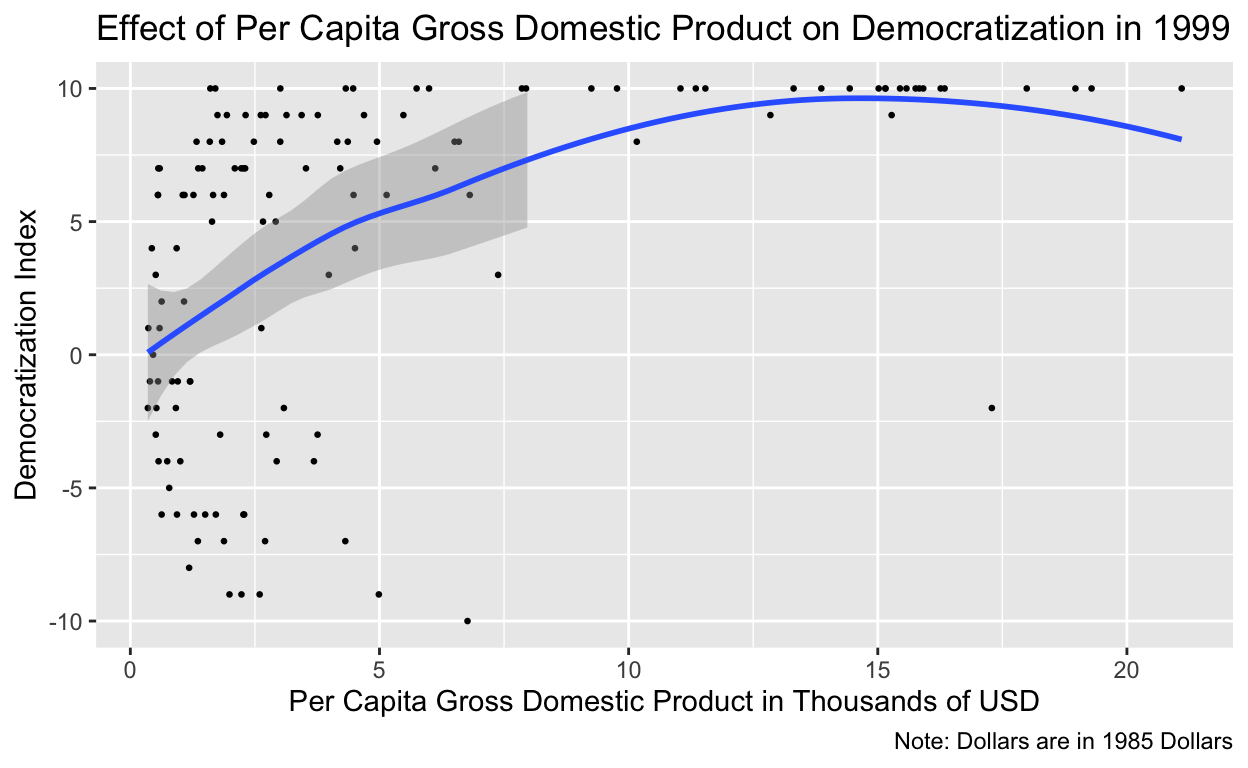
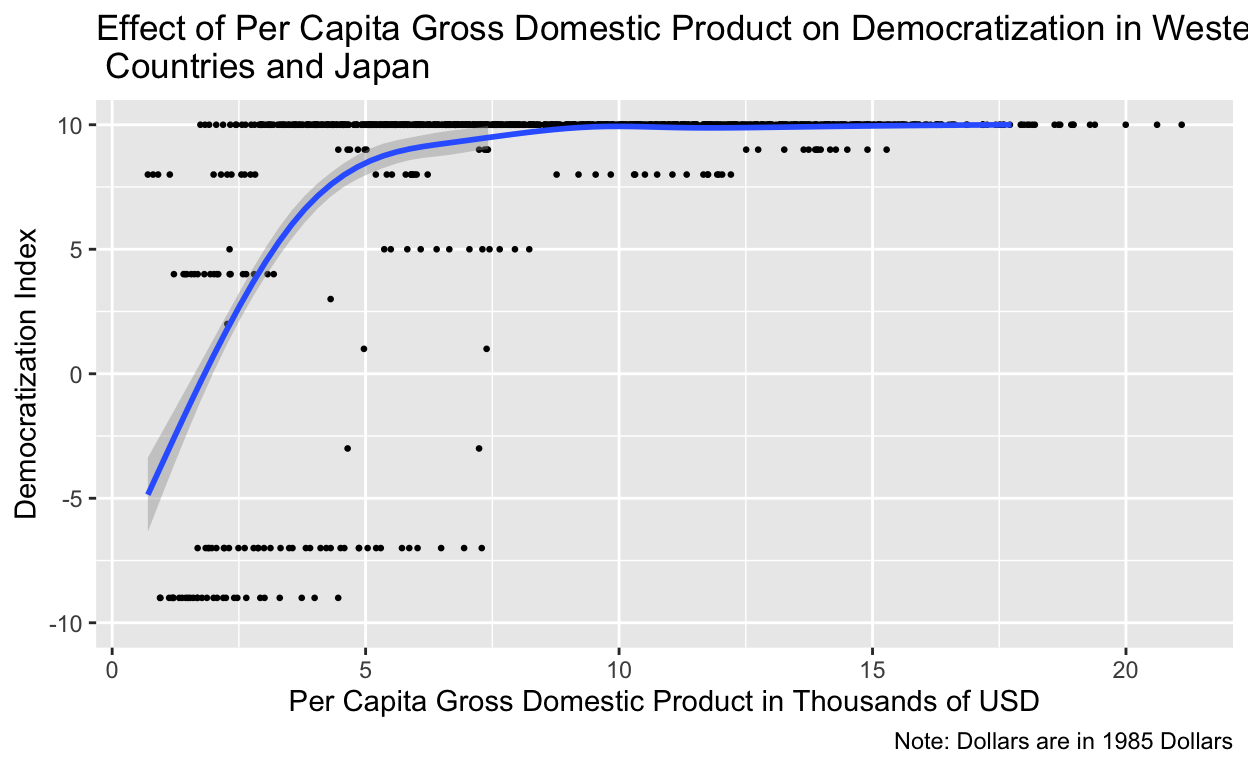
Data Analysis

diff --git a/index.html b/index.html
@@ -115,7 +115,7 @@ code span.wa { color: #5e5e5e; font-style: italic; } /* Warning */
   <!--/radix_placeholder_rmarkdown_metadata-->
   
   <script type="text/json" id="radix-resource-manifest">
-  {"type":"character","attributes":{},"value":["civilwar.csv","index_files/anchor-4.2.2/anchor.min.js","index_files/bowser-1.9.3/bowser.min.js","index_files/distill-2.2.21/template.v2.js","index_files/figure-html5/unnamed-chunk-1-1.png","index_files/figure-html5/unnamed-chunk-1-2.png","index_files/figure-html5/unnamed-chunk-2-1.png","index_files/header-attrs-2.17/header-attrs.js","index_files/header-attrs-2.24/header-attrs.js","index_files/jquery-3.6.0/jquery-3.6.0.js","index_files/jquery-3.6.0/jquery-3.6.0.min.js","index_files/jquery-3.6.0/jquery-3.6.0.min.map","index_files/popper-2.6.0/popper.min.js","index_files/tippy-6.2.7/tippy-bundle.umd.min.js","index_files/tippy-6.2.7/tippy-light-border.css","index_files/tippy-6.2.7/tippy.css","index_files/tippy-6.2.7/tippy.umd.min.js","index_files/webcomponents-2.0.0/webcomponents.js"]}
+  {"type":"character","attributes":{},"value":["civilwar.csv","index_files/anchor-4.2.2/anchor.min.js","index_files/bowser-1.9.3/bowser.min.js","index_files/distill-2.2.21/template.v2.js","index_files/figure-html5/unnamed-chunk-1-1.png","index_files/figure-html5/unnamed-chunk-1-2.png","index_files/figure-html5/unnamed-chunk-1-3.png","index_files/figure-html5/unnamed-chunk-1-4.png","index_files/figure-html5/unnamed-chunk-1-5.png","index_files/figure-html5/unnamed-chunk-1-6.png","index_files/figure-html5/unnamed-chunk-2-1.png","index_files/figure-html5/unnamed-chunk-3-1.png","index_files/header-attrs-2.17/header-attrs.js","index_files/header-attrs-2.24/header-attrs.js","index_files/jquery-3.6.0/jquery-3.6.0.js","index_files/jquery-3.6.0/jquery-3.6.0.min.js","index_files/jquery-3.6.0/jquery-3.6.0.min.map","index_files/popper-2.6.0/popper.min.js","index_files/tippy-6.2.7/tippy-bundle.umd.min.js","index_files/tippy-6.2.7/tippy-light-border.css","index_files/tippy-6.2.7/tippy.css","index_files/tippy-6.2.7/tippy.umd.min.js","index_files/webcomponents-2.0.0/webcomponents.js"]}
   </script>
   <!--radix_placeholder_navigation_in_header-->
   <!--/radix_placeholder_navigation_in_header-->
@@ -1517,6 +1517,103 @@ code span.wa { color: #5e5e5e; font-style: italic; } /* Warning */
 </div>
 
 <div class="d-article">
+<h2 id="data-analysis">Data Analysis</h2>
+<p>I have produced six data visualizations pertaining to my research question of the effects of GDP per capita on democratization. These visualizations provide insight into differences in the effects of GDP per capita on democratization based off continent. My graphs for the Western World, Latin America, and Sub-Saharan Africa appear to demonstrate a generally positive relationship between GDP per capita and democratization. For Eastern Europe, this relationship appears to be positive until per capita GDP reaches $4.5 thousand before turning into a negative relationship. For Asian countries, this relationship appears ot be positive until per capita GDP reaches $9 thousand before turning into a negative relationship. And for North African/Middle Eastern countries, this relationship appears to be negative until per capita GDP reaches approximately $35 thousand before turning into a positive relationship. These findings appear to demonstrate that depending on continent, the effects of GDP per capita on democratization may vary.</p>
+<div class="layout-chunk" data-layout="l-body">
+<div class="sourceCode">
+<pre class="sourceCode r"><code class="sourceCode r"><span><span class='kw'><a href='https://rdrr.io/r/base/library.html'>library</a></span><span class='op'>(</span><span class='va'><a href='https://tidyverse.tidyverse.org'>tidyverse</a></span><span class='op'>)</span></span>
+<span><span class='va'>civilwar</span> <span class='op'>&lt;-</span> <span class='fu'><a href='https://readr.tidyverse.org/reference/read_delim.html'>read_csv</a></span><span class='op'>(</span><span class='st'>"civilwar.csv"</span><span class='op'>)</span></span>
+<span></span>
+<span><span class='va'>civilwar</span> <span class='op'>|&gt;</span></span>
+<span>  <span class='fu'><a href='https://dplyr.tidyverse.org/reference/filter.html'>filter</a></span><span class='op'>(</span><span class='va'>western</span> <span class='op'>==</span> <span class='fl'>1</span><span class='op'>)</span> <span class='op'>|&gt;</span></span>
+<span>  <span class='fu'><a href='https://ggplot2.tidyverse.org/reference/ggplot.html'>ggplot</a></span><span class='op'>(</span><span class='fu'><a href='https://ggplot2.tidyverse.org/reference/aes.html'>aes</a></span><span class='op'>(</span>x <span class='op'>=</span> <span class='va'>gdpen</span>, y <span class='op'>=</span> <span class='va'>polity2</span><span class='op'>)</span><span class='op'>)</span> <span class='op'>+</span></span>
+<span>  <span class='fu'><a href='https://ggplot2.tidyverse.org/reference/geom_point.html'>geom_point</a></span><span class='op'>(</span>size <span class='op'>=</span> <span class='fl'>0.5</span><span class='op'>)</span> <span class='op'>+</span></span>
+<span>  <span class='fu'><a href='https://ggplot2.tidyverse.org/reference/geom_smooth.html'>geom_smooth</a></span><span class='op'>(</span><span class='op'>)</span> <span class='op'>+</span></span>
+<span>  <span class='fu'><a href='https://ggplot2.tidyverse.org/reference/lims.html'>ylim</a></span><span class='op'>(</span><span class='op'>-</span><span class='fl'>10</span>, <span class='fl'>10</span><span class='op'>)</span> <span class='op'>+</span></span>
+<span>  <span class='fu'><a href='https://ggplot2.tidyverse.org/reference/labs.html'>labs</a></span><span class='op'>(</span></span>
+<span>    x <span class='op'>=</span> <span class='st'>"Per Capita Gross Domestic Product in Thousands of USD"</span>,</span>
+<span>    y <span class='op'>=</span> <span class='st'>"Democratization Index"</span>,</span>
+<span>    title <span class='op'>=</span> <span class='st'>"Effect of Per Capita Gross Domestic Product on Democratization in Western \n\ Countries and Japan"</span>,</span>
+<span>    caption <span class='op'>=</span> <span class='st'>"Note: Dollars are in 1985 Dollars"</span></span>
+<span>  <span class='op'>)</span></span></code></pre>
+</div>
+<img src="index_files/figure-html5/unnamed-chunk-1-1.png" width="624" />
+<div class="sourceCode">
+<pre class="sourceCode r"><code class="sourceCode r"><span><span class='va'>civilwar</span> <span class='op'>|&gt;</span></span>
+<span>  <span class='fu'><a href='https://dplyr.tidyverse.org/reference/filter.html'>filter</a></span><span class='op'>(</span><span class='va'>eeurop</span> <span class='op'>==</span> <span class='fl'>1</span><span class='op'>)</span> <span class='op'>|&gt;</span></span>
+<span>  <span class='fu'><a href='https://ggplot2.tidyverse.org/reference/ggplot.html'>ggplot</a></span><span class='op'>(</span><span class='fu'><a href='https://ggplot2.tidyverse.org/reference/aes.html'>aes</a></span><span class='op'>(</span>x <span class='op'>=</span> <span class='va'>gdpen</span>, y <span class='op'>=</span> <span class='va'>polity2</span><span class='op'>)</span><span class='op'>)</span> <span class='op'>+</span></span>
+<span>  <span class='fu'><a href='https://ggplot2.tidyverse.org/reference/geom_point.html'>geom_point</a></span><span class='op'>(</span>size <span class='op'>=</span> <span class='fl'>0.5</span><span class='op'>)</span> <span class='op'>+</span></span>
+<span>  <span class='fu'><a href='https://ggplot2.tidyverse.org/reference/geom_smooth.html'>geom_smooth</a></span><span class='op'>(</span><span class='op'>)</span> <span class='op'>+</span></span>
+<span>  <span class='fu'><a href='https://ggplot2.tidyverse.org/reference/lims.html'>ylim</a></span><span class='op'>(</span><span class='op'>-</span><span class='fl'>10</span>, <span class='fl'>10</span><span class='op'>)</span> <span class='op'>+</span></span>
+<span>  <span class='fu'><a href='https://ggplot2.tidyverse.org/reference/labs.html'>labs</a></span><span class='op'>(</span></span>
+<span>    x <span class='op'>=</span> <span class='st'>"Per Capita Gross Domestic Product in Thousands of USD"</span>,</span>
+<span>    y <span class='op'>=</span> <span class='st'>"Democratization Index"</span>,</span>
+<span>    title <span class='op'>=</span> <span class='st'>"Effect of Per Capita Gross Domestic Product on Democratization in Eastern Europe"</span>,</span>
+<span>    caption <span class='op'>=</span> <span class='st'>"Note: Dollars are in 1985 Dollars"</span></span>
+<span>  <span class='op'>)</span></span></code></pre>
+</div>
+<img src="index_files/figure-html5/unnamed-chunk-1-2.png" width="624" />
+<div class="sourceCode">
+<pre class="sourceCode r"><code class="sourceCode r"><span><span class='va'>civilwar</span> <span class='op'>|&gt;</span></span>
+<span>  <span class='fu'><a href='https://dplyr.tidyverse.org/reference/filter.html'>filter</a></span><span class='op'>(</span><span class='va'>lamerica</span> <span class='op'>==</span> <span class='fl'>1</span><span class='op'>)</span> <span class='op'>|&gt;</span></span>
+<span>  <span class='fu'><a href='https://ggplot2.tidyverse.org/reference/ggplot.html'>ggplot</a></span><span class='op'>(</span><span class='fu'><a href='https://ggplot2.tidyverse.org/reference/aes.html'>aes</a></span><span class='op'>(</span>x <span class='op'>=</span> <span class='va'>gdpen</span>, y <span class='op'>=</span> <span class='va'>polity2</span><span class='op'>)</span><span class='op'>)</span> <span class='op'>+</span></span>
+<span>  <span class='fu'><a href='https://ggplot2.tidyverse.org/reference/geom_point.html'>geom_point</a></span><span class='op'>(</span>size <span class='op'>=</span> <span class='fl'>0.5</span><span class='op'>)</span> <span class='op'>+</span></span>
+<span>  <span class='fu'><a href='https://ggplot2.tidyverse.org/reference/geom_smooth.html'>geom_smooth</a></span><span class='op'>(</span><span class='op'>)</span> <span class='op'>+</span></span>
+<span>  <span class='fu'><a href='https://ggplot2.tidyverse.org/reference/lims.html'>ylim</a></span><span class='op'>(</span><span class='op'>-</span><span class='fl'>10</span>, <span class='fl'>10</span><span class='op'>)</span> <span class='op'>+</span></span>
+<span>  <span class='fu'><a href='https://ggplot2.tidyverse.org/reference/labs.html'>labs</a></span><span class='op'>(</span></span>
+<span>    x <span class='op'>=</span> <span class='st'>"Per Capita Gross Domestic Product in Thousands of USD"</span>,</span>
+<span>    y <span class='op'>=</span> <span class='st'>"Democratization Index"</span>,</span>
+<span>    title <span class='op'>=</span> <span class='st'>"Effect of Per Capita Gross Domestic Product on Democratization in Latin America"</span>,</span>
+<span>    caption <span class='op'>=</span> <span class='st'>"Note: Dollars are in 1985 Dollars"</span></span>
+<span>  <span class='op'>)</span></span></code></pre>
+</div>
+<img src="index_files/figure-html5/unnamed-chunk-1-3.png" width="624" />
+<div class="sourceCode">
+<pre class="sourceCode r"><code class="sourceCode r"><span><span class='va'>civilwar</span> <span class='op'>|&gt;</span></span>
+<span>  <span class='fu'><a href='https://dplyr.tidyverse.org/reference/filter.html'>filter</a></span><span class='op'>(</span><span class='va'>ssafrica</span> <span class='op'>==</span> <span class='fl'>1</span><span class='op'>)</span> <span class='op'>|&gt;</span></span>
+<span>  <span class='fu'><a href='https://ggplot2.tidyverse.org/reference/ggplot.html'>ggplot</a></span><span class='op'>(</span><span class='fu'><a href='https://ggplot2.tidyverse.org/reference/aes.html'>aes</a></span><span class='op'>(</span>x <span class='op'>=</span> <span class='va'>gdpen</span>, y <span class='op'>=</span> <span class='va'>polity2</span><span class='op'>)</span><span class='op'>)</span> <span class='op'>+</span></span>
+<span>  <span class='fu'><a href='https://ggplot2.tidyverse.org/reference/geom_point.html'>geom_point</a></span><span class='op'>(</span>size <span class='op'>=</span> <span class='fl'>0.5</span><span class='op'>)</span> <span class='op'>+</span></span>
+<span>  <span class='fu'><a href='https://ggplot2.tidyverse.org/reference/geom_smooth.html'>geom_smooth</a></span><span class='op'>(</span><span class='op'>)</span> <span class='op'>+</span></span>
+<span>  <span class='fu'><a href='https://ggplot2.tidyverse.org/reference/lims.html'>ylim</a></span><span class='op'>(</span><span class='op'>-</span><span class='fl'>10</span>, <span class='fl'>10</span><span class='op'>)</span> <span class='op'>+</span></span>
+<span>  <span class='fu'><a href='https://ggplot2.tidyverse.org/reference/labs.html'>labs</a></span><span class='op'>(</span></span>
+<span>    x <span class='op'>=</span> <span class='st'>"Per Capita Gross Domestic Product in Thousands of USD"</span>,</span>
+<span>    y <span class='op'>=</span> <span class='st'>"Democratization Index"</span>,</span>
+<span>    title <span class='op'>=</span> <span class='st'>"Effect of Per Capita Gross Domestic Product on Democratization in \n\ Sub-Saharan Africa"</span>,</span>
+<span>    caption <span class='op'>=</span> <span class='st'>"Note: Dollars are in 1985 Dollars"</span></span>
+<span>  <span class='op'>)</span></span></code></pre>
+</div>
+<img src="index_files/figure-html5/unnamed-chunk-1-4.png" width="624" />
+<div class="sourceCode">
+<pre class="sourceCode r"><code class="sourceCode r"><span><span class='va'>civilwar</span> <span class='op'>|&gt;</span></span>
+<span>  <span class='fu'><a href='https://dplyr.tidyverse.org/reference/filter.html'>filter</a></span><span class='op'>(</span><span class='va'>asia</span> <span class='op'>==</span> <span class='fl'>1</span><span class='op'>)</span> <span class='op'>|&gt;</span></span>
+<span>  <span class='fu'><a href='https://ggplot2.tidyverse.org/reference/ggplot.html'>ggplot</a></span><span class='op'>(</span><span class='fu'><a href='https://ggplot2.tidyverse.org/reference/aes.html'>aes</a></span><span class='op'>(</span>x <span class='op'>=</span> <span class='va'>gdpen</span>, y <span class='op'>=</span> <span class='va'>polity2</span><span class='op'>)</span><span class='op'>)</span> <span class='op'>+</span></span>
+<span>  <span class='fu'><a href='https://ggplot2.tidyverse.org/reference/geom_point.html'>geom_point</a></span><span class='op'>(</span>size <span class='op'>=</span> <span class='fl'>0.5</span><span class='op'>)</span> <span class='op'>+</span></span>
+<span>  <span class='fu'><a href='https://ggplot2.tidyverse.org/reference/geom_smooth.html'>geom_smooth</a></span><span class='op'>(</span><span class='op'>)</span> <span class='op'>+</span></span>
+<span>  <span class='fu'><a href='https://ggplot2.tidyverse.org/reference/lims.html'>ylim</a></span><span class='op'>(</span><span class='op'>-</span><span class='fl'>10</span>, <span class='fl'>10</span><span class='op'>)</span> <span class='op'>+</span></span>
+<span>  <span class='fu'><a href='https://ggplot2.tidyverse.org/reference/labs.html'>labs</a></span><span class='op'>(</span></span>
+<span>    x <span class='op'>=</span> <span class='st'>"Per Capita Gross Domestic Product in Thousands of USD"</span>,</span>
+<span>    y <span class='op'>=</span> <span class='st'>"Democratization Index"</span>,</span>
+<span>    title <span class='op'>=</span> <span class='st'>"Effect of Per Capita Gross Domestic Product on Democratization in Asia"</span>,</span>
+<span>    caption <span class='op'>=</span> <span class='st'>"Note: Dollars are in 1985 Dollars"</span></span>
+<span>  <span class='op'>)</span></span></code></pre>
+</div>
+<img src="index_files/figure-html5/unnamed-chunk-1-5.png" width="624" />
+<div class="sourceCode">
+<pre class="sourceCode r"><code class="sourceCode r"><span><span class='va'>civilwar</span> <span class='op'>|&gt;</span></span>
+<span>  <span class='fu'><a href='https://dplyr.tidyverse.org/reference/filter.html'>filter</a></span><span class='op'>(</span><span class='va'>nafrme</span> <span class='op'>==</span> <span class='fl'>1</span><span class='op'>)</span> <span class='op'>|&gt;</span></span>
+<span>  <span class='fu'><a href='https://ggplot2.tidyverse.org/reference/ggplot.html'>ggplot</a></span><span class='op'>(</span><span class='fu'><a href='https://ggplot2.tidyverse.org/reference/aes.html'>aes</a></span><span class='op'>(</span>x <span class='op'>=</span> <span class='va'>gdpen</span>, y <span class='op'>=</span> <span class='va'>polity2</span><span class='op'>)</span><span class='op'>)</span> <span class='op'>+</span></span>
+<span>  <span class='fu'><a href='https://ggplot2.tidyverse.org/reference/geom_point.html'>geom_point</a></span><span class='op'>(</span>size <span class='op'>=</span> <span class='fl'>0.5</span><span class='op'>)</span> <span class='op'>+</span></span>
+<span>  <span class='fu'><a href='https://ggplot2.tidyverse.org/reference/geom_smooth.html'>geom_smooth</a></span><span class='op'>(</span><span class='op'>)</span> <span class='op'>+</span></span>
+<span>  <span class='fu'><a href='https://ggplot2.tidyverse.org/reference/lims.html'>ylim</a></span><span class='op'>(</span><span class='op'>-</span><span class='fl'>10</span>, <span class='fl'>10</span><span class='op'>)</span> <span class='op'>+</span></span>
+<span>  <span class='fu'><a href='https://ggplot2.tidyverse.org/reference/labs.html'>labs</a></span><span class='op'>(</span></span>
+<span>    x <span class='op'>=</span> <span class='st'>"Per Capita Gross Domestic Product in Thousands of USD"</span>,</span>
+<span>    y <span class='op'>=</span> <span class='st'>"Democratization Index"</span>,</span>
+<span>    title <span class='op'>=</span> <span class='st'>"Effect of Per Capita Gross Domestic Product on Democratization in \n\ North Africa/Middle East"</span>,</span>
+<span>    caption <span class='op'>=</span> <span class='st'>"Note: Dollars are in 1985 Dollars"</span></span>
+<span>  <span class='op'>)</span></span></code></pre>
+</div>
+<p><img src="index_files/figure-html5/unnamed-chunk-1-6.png" width="624" /></p>
+</div>
 <h2 id="data-visualization">Data Visualization</h2>
 <p>I have produced two data visualizations pertaining to my research question of the effects of GDP per capita on a country’s democratization. I find an interesting difference between my two visualizations. My first visualization explores the effects of GDP per capita on countries’ democratization in 1999, finding that there seems to exist a positive relationship between GDP per capita and a country’s democratization. However, my second visualization, which explores this relationship between GDP per capita and democratization across all countries from 1945 to 1999, there appears to be a positive relationship between GDP per capita and democratization until approximately $10,000 USD per capita when the relationship becomes negative, implying that as per capita GDP increases beyond $10,000, the more likely a country is authoritarian.</p>
 <div class="layout-chunk" data-layout="l-body">
@@ -1537,7 +1634,7 @@ code span.wa { color: #5e5e5e; font-style: italic; } /* Warning */
 <span>    caption <span class='op'>=</span> <span class='st'>"Note: Dollars are in 1985 Dollars"</span></span>
 <span>  <span class='op'>)</span></span></code></pre>
 </div>
-<p><img src="index_files/figure-html5/unnamed-chunk-1-1.png" width="624" /></p>
+<p><img src="index_files/figure-html5/unnamed-chunk-2-1.png" width="624" /></p>
 </div>
 <div class="layout-chunk" data-layout="l-body">
 <div class="sourceCode">
@@ -1553,7 +1650,7 @@ code span.wa { color: #5e5e5e; font-style: italic; } /* Warning */
 <span>    caption <span class='op'>=</span> <span class='st'>"Note: Dollars are in 1985 Dollars"</span></span>
 <span>  <span class='op'>)</span></span></code></pre>
 </div>
-<p><img src="index_files/figure-html5/unnamed-chunk-2-1.png" width="624" /></p>
+<p><img src="index_files/figure-html5/unnamed-chunk-3-1.png" width="624" /></p>
 </div>
 <h2 id="project-proposal">Project Proposal</h2>
 <p>The research question for my final project is “what are the effects of gross domestic product on a country’s democratization index?” I hypothesize that the higher a country’s GDP, the more likely a country is to have a higher democracy index score. My hypothesis is rooted in the literature of comparative politics and specifically the modernization theory of democratization which argues that there exists a strong relationship between economic wealth and democracy. For instance, 19 out of the 20 richest countries in the world (aside from microstates and oil kingdoms) are democracies (Singapore is the exception), while the world’s 20 poorest countries are authoritarian regimes. Put simply by political scientist Seymour Lipset, “the more well-to-do a nation, the greater the chances that it will sustain democracy” (1959).</p>
